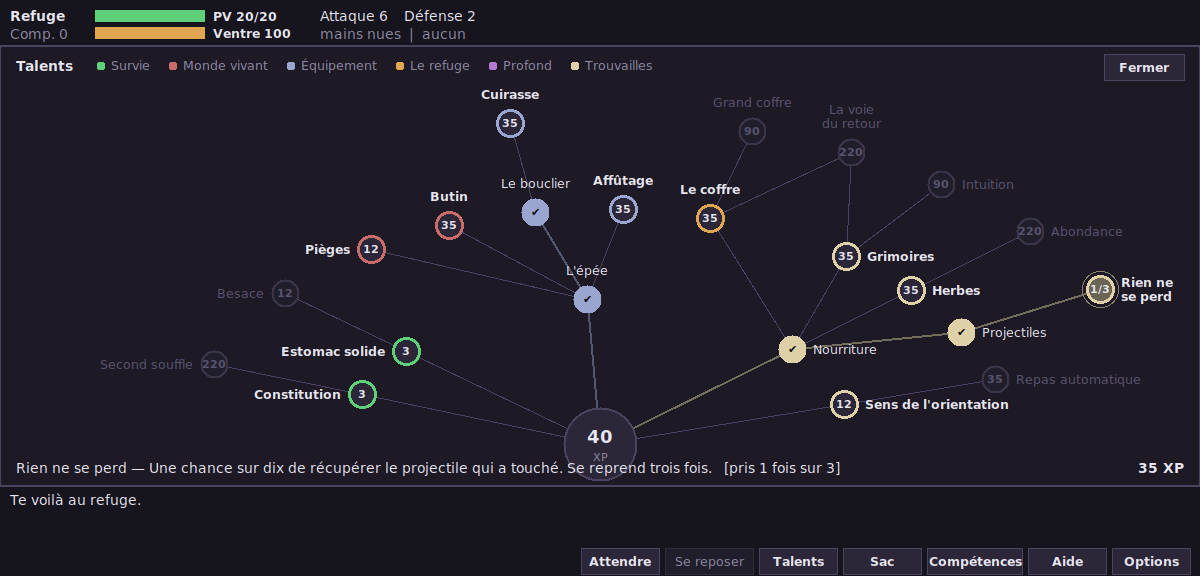
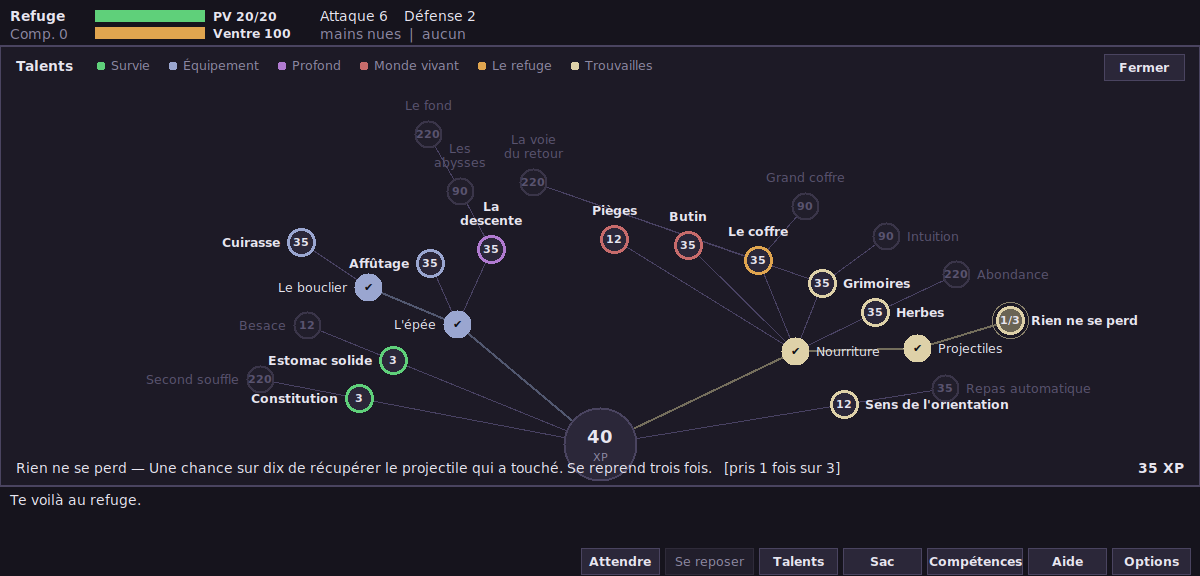
La nourriture attire les bêtes
Ton idée supprime l'état qui causait l'anomalie plutôt que d'en traiter
l'effet : il n'existe plus de moment où l'on a de quoi manger et rien à
craindre. Le premier nœud du jeu peuple donc déjà le donjon — l'odeur des
vivres réveille ce qui rôde — et « L'épée » n'apporte plus que sa classe de
guerriers, en exigeant « Nourriture » : on n'arme pas des créatures avant
qu'il y en ait.

« Pièges » et « Butin » suivent le même déménagement : tous deux parlent
des créatures, ils pendent maintenant à ce qui les amène.

Conséquence à noter : la série est désormais monotone avec ou sans fond de
donjon (13,8 contre 14,0). Le plafond à huit étages n'est donc plus un
correctif ; il reste comme dessin — un sommet à atteindre dans les
premières heures, et trois nœuds pour le repousser — mais c'est un choix,
et il s'enlève en une ligne.

Rythme observé : Nourriture (vie 2,8) · Estomac (4,3) · Constitution (5,0)
· Besace (5,2) · L'épée (5,9) · Le bouclier (6,8) · Pièges (7,3).

Claude-Session: https://claude.ai/code/session_018UFaHGxRzxn1yYEEvUBBBk

diff --git a/donjon/tree.py b/donjon/tree.py
@@ -114,11 +114,10 @@ _enregistrer(
     # ne serait jamais pris ; celui-ci arme le donjon et le joueur du même
     # geste, à lui d'aller la chercher.
     Noeud("epee", "L'épée", 12,
-          "Des épées traînent dans le donjon — et des créatures pour s'en "
-          "servir : le monde se peuple, et il se bat au contact.",
-          branche="Équipement", unlocks=("epees",),
-          classes=("rodeur", "erratique", "guerrier"),
-          reglages={"monsters_per_floor": (3, 6), "spawn_interval": 30}),
+          "Des épées traînent dans le donjon — et des créatures qui savent "
+          "s'en servir : ce qui rôdait se met à frapper pour de bon.",
+          branche="Équipement", parents=("nourriture",), unlocks=("epees",),
+          classes=("guerrier",)),
     Noeud("bouclier", "Le bouclier", 12,
           "Des boucliers apparaissent au sol. Le donjon se protège aussi : "
           "des créatures blindées, difficiles à entamer.",
@@ -133,20 +132,27 @@ _enregistrer(
     Noeud("pieges", "Pièges", 12,
           "Le sol devient traître. Les créatures marchent dessus aussi : "
           "un piège repéré est une arme.",
-          branche="Monde vivant", parents=("epee",),
+          branche="Monde vivant", parents=("nourriture",),
           reglages={"traps_per_floor": (1, 3)}),
 
     Noeud("butin", "Butin", 35,
           "Les créatures vaincues laissent parfois quelque chose : leur arme, "
           "leur pitance. Ce qu'on ramasse ainsi aiguise l'œil.",
-          branche="Monde vivant", parents=("epee",), unlocks=("butin",)),
+          branche="Monde vivant", parents=("nourriture",), unlocks=("butin",)),
 
     # --- Trouvailles : ce qui traîne par terre ----------------------------
+    # Et voilà pourquoi le premier nœud du jeu peuple déjà le donjon : ce que
+    # tu apportes, le donjon le sent. Sans cela il existait un état — des
+    # vivres, aucun monstre — où l'on traversait le donjon à pied sans risque,
+    # et le multiplicateur de profondeur payait cette promenade mieux que le
+    # jeu réel : 44 XP par vie contre 16.
     Noeud("nourriture", "Nourriture", 3,
-          "Des vivres apparaissent au sol : de quoi tenir plus loin que ce "
-          "qu'on emporte, et un pour la route.",
+          "Des vivres apparaissent au sol, et un pour la route. Mais l'odeur "
+          "attire les bêtes : le donjon n'est plus désert.",
           branche="Trouvailles", unlocks=("vivres",), objets=("onigiri",),
-          reglages={"items_per_floor": (2, 4)}),
+          classes=("rodeur", "erratique"),
+          reglages={"items_per_floor": (2, 4),
+                    "monsters_per_floor": (3, 6), "spawn_interval": 30}),
     Noeud("exploration", "Sens de l'orientation", 12,
           "Le héros sait explorer un étage tout seul : il s'arrête dès que "
           "quelque chose bouge, ou qu'il a fini.",
@@ -220,7 +226,7 @@ EFFETS_META = {"coffre_places"}
 #: premières suivent l'ordre où le joueur les découvre. Un croisement subsiste :
 #: aucun ordre n'en donne moins, l'arbre ayant désormais plus de liens qui
 #: traversent qu'une seule permutation ne peut en démêler.
-BRANCHES = ("Survie", "Monde vivant", "Équipement", "Profond", "Le refuge",
+BRANCHES = ("Survie", "Équipement", "Profond", "Monde vivant", "Le refuge",
             "Trouvailles")
 
 

diff --git a/tests/test_meta.py b/tests/test_meta.py
@@ -106,8 +106,10 @@ class TestInfluenceSurLesRuns(unittest.TestCase):
         """Ce que le héros apprend, le donjon l'apprend : pas plus, pas moins."""
         meta = Meta(xp=1000)
         self.assertNotIn("rodeur", meta.run_config().classes)
-        meta.acheter("epee")
+        meta.acheter("nourriture")           # l'odeur attire les bêtes
         self.assertIn("rodeur", meta.run_config().classes)
+        self.assertNotIn("guerrier", meta.run_config().classes)
+        meta.acheter("epee")
         self.assertIn("guerrier", meta.run_config().classes)
         self.assertNotIn("blinde", meta.run_config().classes)
         meta.acheter("bouclier")

diff --git a/tests/test_hub.py b/tests/test_hub.py
@@ -200,7 +200,7 @@ class TestTalentImmediat(unittest.TestCase):
     def setUp(self):
         self.session = Session(sauvegarde=False, seed=3)
         self.session.meta.xp = 1000
-        for cle in ("epee",):
+        for cle in ("nourriture", "epee"):
             self.session.meta.acheter(cle)
         self.session.demarrer()
 

diff --git a/docs/plan-incremental.md b/docs/plan-incremental.md
@@ -704,8 +704,20 @@ places au sol restent vides. Un donjon où l'on n'a rien débloqué est un donjo
 pauvre, pas un garde-manger. La puissance de l'onigiri n'a pas bougé : c'était
 la quantité, pas la portion.
 
-**Mais le vrai défaut était dessous, et c'est ma baisse de prix qui l'a
-révélé.** « Nourriture » à 3 XP rendait le donjon vide *survivable* : le bot le
+**Et l'idée qui a tout simplifié : la nourriture attire les bêtes.** Le premier
+nœud du jeu peuple donc déjà le donjon — l'odeur des vivres réveille ce qui
+rôde. Cela supprime l'**état** qui causait tout le reste : il n'existe plus de
+moment où l'on a de quoi manger et rien à craindre. « L'épée » n'apporte plus
+que sa classe de guerriers, et exige « Nourriture » : on ne peut pas armer des
+créatures avant qu'il y en ait.
+
+Sous cette forme, la série est monotone **avec ou sans** fond de donjon (13,8
+contre 14,0) : le remède de la profondeur n'est donc plus un correctif. Il est
+conservé comme dessin — l'escalier qui s'arrête à l'étage 8 donne un sommet à
+atteindre aux premières heures, et trois nœuds pour le repousser — mais c'est
+un choix, plus une nécessité.
+
+**Le défaut que tout cela corrigeait, pour mémoire.** « Nourriture » à 3 XP rendait le donjon vide *survivable* : le bot le
 traversait jusqu'à l'étage 26 sans rencontrer âme qui vive, et le multiplicateur
 de profondeur payait 44 XP par vie — contre 16 une fois les créatures
 réveillées. **Le jeu payait pour éviter son propre contenu.**
